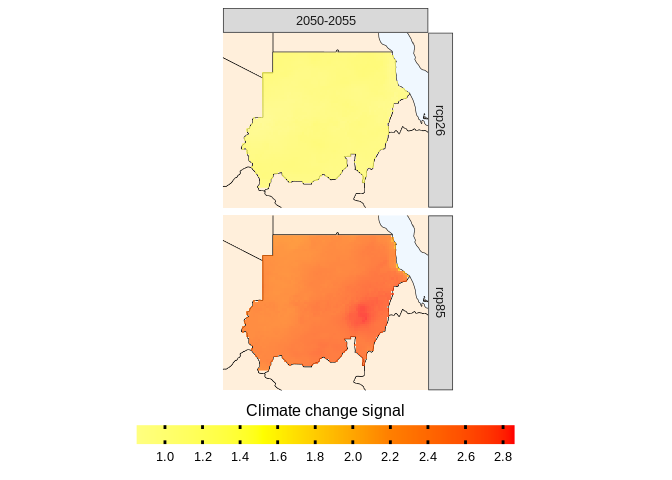
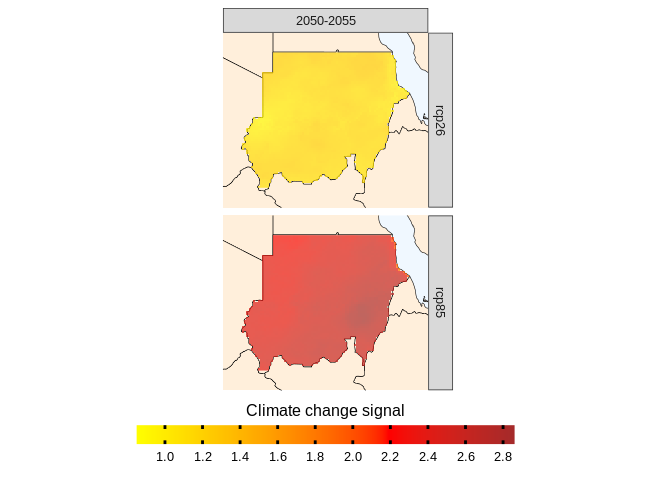
Updated README

Changed region(s): [[0.3438, 0.4688, 0.625, 0.7812], [0.3438, 0.0938, 0.625, 0.4062], [0.1875, 0.875, 0.7812, 0.9375]]

diff --git a/README.md b/README.md
@@ -5,27 +5,27 @@ CAVAanalytics
 ## Introduction: What is CAVA?
 
 CAVA (Climate and Agriculture Risk Visualization and Assessment) is a
-framework and approach to the analysis of state-of-the-art climate data
-(and more). [CAVA is made of a Platform
+framework and approach to the analysis and visualization of
+state-of-the-art climate data. [CAVA is made of a Platform
 (GUI)](https://fao-cava.predictia.es/auth), which is freely accessible
-and satisfy the needs of standard users and of a R package
-(CAVAanalytics) which allows remote access to climate data and several
-functions for more advance climate data analysis.
+and satisfy the needs of most standard users, and a R package
+(**CAVAanalytics**) which allows remote access to climate data and
+several functions for more advance climate data analysis.
 
 CAVAanalytics can be used locally (installation through GitHub),
 remotely (registered users can access the University of Cantabria
 JupyterHub with 180 Gb RAM) and through a Docker image.
 
-| ![framework](https://user-images.githubusercontent.com/40058235/234544688-af8c5a1d-588e-4145-813f-feb0ea2db916.png) |
-|:-------------------------------------------------------------------------------------------------------------------:|
-|                                                       *CAVA*                                                        |
+|                                                                                        ![framework](https://user-images.githubusercontent.com/40058235/234544688-af8c5a1d-588e-4145-813f-feb0ea2db916.png)                                                                                         |
+|:--------------------------------------------------------------------------------------------------------------------------------------------------------------------------------------------------------------------------------------------------------------------------------------------------:|
+| *CAVA framework. CAVA can be used through a graphic user interface (CAVA Platform) or through the CAVAanalytics R package. The package can be used locally (GitHub installation), remotely (University of Cantabria JupyterHub) or locally but through a Docker image to solve dependencies issue* |
 
 ## CAVAanalytics
 
 **CAVAanalytics** is a package that offers a consistent framework to
 load, analyse and visualize multi-model ensembles. **CAVAanalytics**
 provides an access point for CORDEX-CORE simulations at 25 Km resolution
-already interpolated plus the W5E5 and ERA5 dataset. CAVAanalytics can
+already interpolated plus the W5E5 and ERA5 datasets. CAVAanalytics can
 be seen as a wrapper of several packages, but the main engine for
 loading and processing climate models is the [climate4R
 framework](https://github.com/SantanderMetGroup/climate4R), applied with
@@ -39,7 +39,7 @@ available.
 
 Based on how you want to use CAVAanalytics, there are three options.
 
-### Locally
+### Locally from GitHub
 
 If you have already installed most of the climaterR packages, you can
 simply install CAVAanalytics from GitHub:
@@ -71,13 +71,14 @@ be troublesome.
 You can request access to the University of Cantabria JupyterHub, where
 CAVAanalytics is already installed. This will give you access to
 computational resources and you would be able to perform your climate
-analysis using a Jupyter Notebook environment. If you would liek to
-acess these resources, you are welcome to contact
+analysis using a Jupyter Notebook environment. If you would like to
+access these resources, you are welcome to contact
 <riccardo.soldan@fao.org> or <Hideki.Kanamaru@fao.org>
 
-### Docker
+### Locally through Docker
 
-A docker image will be made available soon
+A docker image will be made available soon, containing all the required
+software to immediately start working with CAVAanalytics.
 
 ## Using CAVAanalytics
 
@@ -162,7 +163,7 @@ rsts <- remote.data %>%
   projections(bias.correction = F, season = 1:12)
 ```
 
-    ## 2023-04-26 11:26:12 projections, season 1-2-3-4-5-6-7-8-9-10-11-12. Calculation of mean  tasmax
+    ## 2023-04-26 11:59:07 projections, season 1-2-3-4-5-6-7-8-9-10-11-12. Calculation of mean  tasmax
 
 ``` r
 # calculating number of days above 45 C
@@ -170,7 +171,7 @@ rsts_thrs <- remote.data %>%
   projections(bias.correction = F, season = 1:12, uppert = 45, consecutive = F)
 ```
 
-    ## 2023-04-26 11:26:21 projections, season 1-2-3-4-5-6-7-8-9-10-11-12. Calculation of number of days with tasmax above threshold of 45
+    ## 2023-04-26 11:59:16 projections, season 1-2-3-4-5-6-7-8-9-10-11-12. Calculation of number of days with tasmax above threshold of 45
 
 #### Climate_change_signal
 
@@ -185,7 +186,7 @@ rsts_ccs <- remote.data %>%
   climate_change_signal(., season = 1:12)
 ```
 
-    ## 2023-04-26 11:26:30 climate change signal, season 1-2-3-4-5-6-7-8-9-10-11-12. Climate change signal for mean tasmax
+    ## 2023-04-26 11:59:24 climate change signal, season 1-2-3-4-5-6-7-8-9-10-11-12. Climate change signal for mean tasmax
 
 ### Third step: visualize results
 
@@ -199,13 +200,13 @@ rsts %>%
 plotting(plot_titles = "Average tasmax", ensemble=T, stat="mean") # default is mean but it can also take SD
 ```
 
-    ## 2023-04-26 11:26:39
+    ## 2023-04-26 11:59:34
     ## Visualizing ensemble mean
 
-    ## 2023-04-26 11:26:39
+    ## 2023-04-26 11:59:34
     ## Prepare for plotting
 
-    ## 2023-04-26 11:26:40 Done
+    ## 2023-04-26 11:59:34 Done
 
 ![](README_files/figure-gfm/unnamed-chunk-6-1.png)<!-- -->
 
@@ -214,28 +215,28 @@ rsts %>%
 plotting(plot_titles = "Average tasmax", ensemble=F)
 ```
 
-    ## 2023-04-26 11:26:40
+    ## 2023-04-26 11:59:34
     ## Visualizing individual members, argument stat is ignored
 
-    ## 2023-04-26 11:26:40
+    ## 2023-04-26 11:59:34
     ## Prepare for plotting
 
-    ## 2023-04-26 11:26:40 Done
+    ## 2023-04-26 11:59:34 Done
 
 ![](README_files/figure-gfm/unnamed-chunk-6-2.png)<!-- -->
 
 ``` r
 rsts_ccs %>%
-plotting(plot_titles = "Climate change signal", ensemble=T, stat="mean", palette = rev(heat.colors(4))) # default is mean but it can also take SD
+plotting(plot_titles = "Climate change signal", ensemble=T, stat="mean", palette = c("yellow", "orange", "red", "brown")) # default is mean but it can also take SD
 ```
 
-    ## 2023-04-26 11:26:41
+    ## 2023-04-26 11:59:35
     ## Visualizing ensemble mean
 
-    ## 2023-04-26 11:26:41
+    ## 2023-04-26 11:59:35
     ## Prepare for plotting
 
-    ## 2023-04-26 11:26:41 Done
+    ## 2023-04-26 11:59:35 Done
 
 ![](README_files/figure-gfm/unnamed-chunk-6-3.png)<!-- -->
 
@@ -244,12 +245,12 @@ rsts_thrs %>%
 plotting(plot_titles = "N. days", ensemble=F)
 ```
 
-    ## 2023-04-26 11:26:41
+    ## 2023-04-26 11:59:36
     ## Visualizing individual members, argument stat is ignored
 
-    ## 2023-04-26 11:26:41
+    ## 2023-04-26 11:59:36
     ## Prepare for plotting
 
-    ## 2023-04-26 11:26:41 Done
+    ## 2023-04-26 11:59:36 Done
 
 ![](README_files/figure-gfm/unnamed-chunk-7-1.png)<!-- -->
